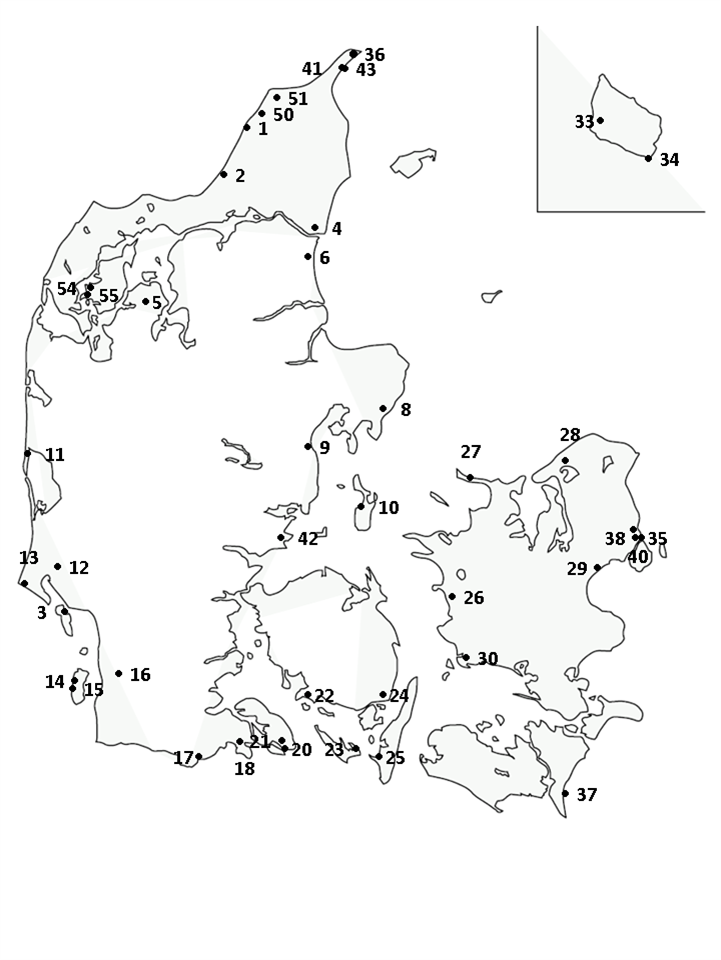
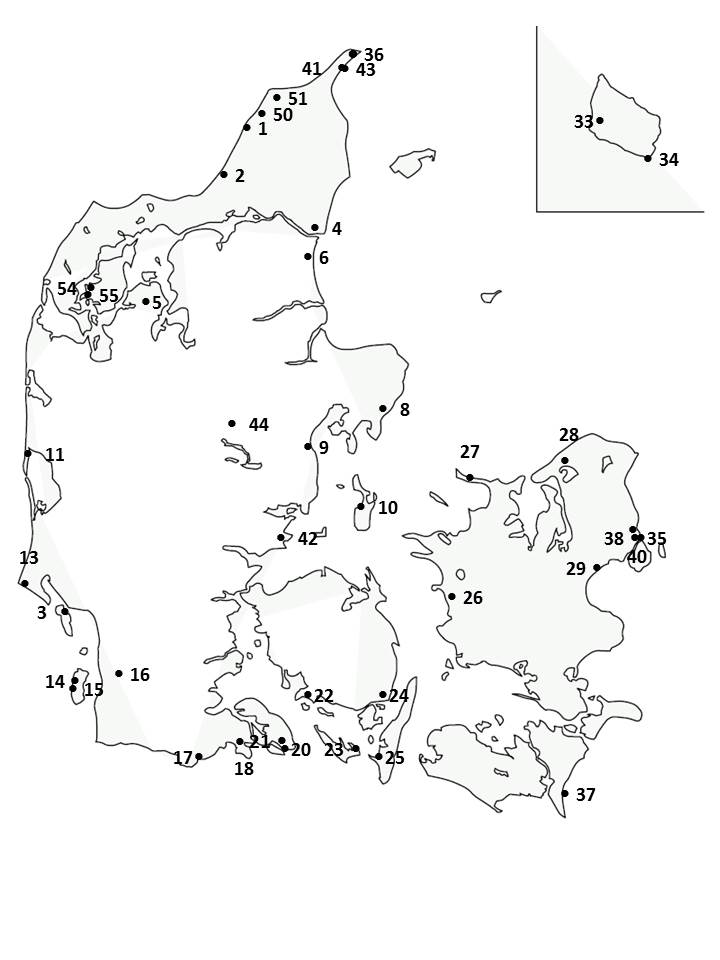
Feriehuskort
Billedet ændret med det nye hus i Søhøjlandet - samt sletning af Oksbøl
og Bisserup er slettet.

diff --git a/www/content/feriehus.html b/www/content/feriehus.html
@@ -12,7 +12,7 @@
         
         <h1 style="padding:10px 0px 10px 0px; background-color: #2d4373;">Feriehuse</h1>
         
-        <div style="background-color: #263961;padding: 10px 5px 10px 5px">Klik på kortet for yderligere oplysninger om feriehusenes adresser. Book nedenfor, eller gå ind på www.falckpf.dk og book dit feriehus via linket 'Falckhusbooking' i nederste venstre side af skærmen.</div>
+        <div style="background-color: #263961;padding: 10px 5px 10px 5px">Klik på kortet for yderligere oplysninger om feriehusenes adresser. Book nedenfor, eller gå ind på www.falckpf.dk og book dit feriehus via linket 'Feriehusbooking' i nederste venstre side af skærmen.</div>
             <a href="feriehusnumre.html"><img class="app" src="..\img\Danmark.png" width="1000wv" height="1500vw"></a>
         
         <div id="menubar">   
